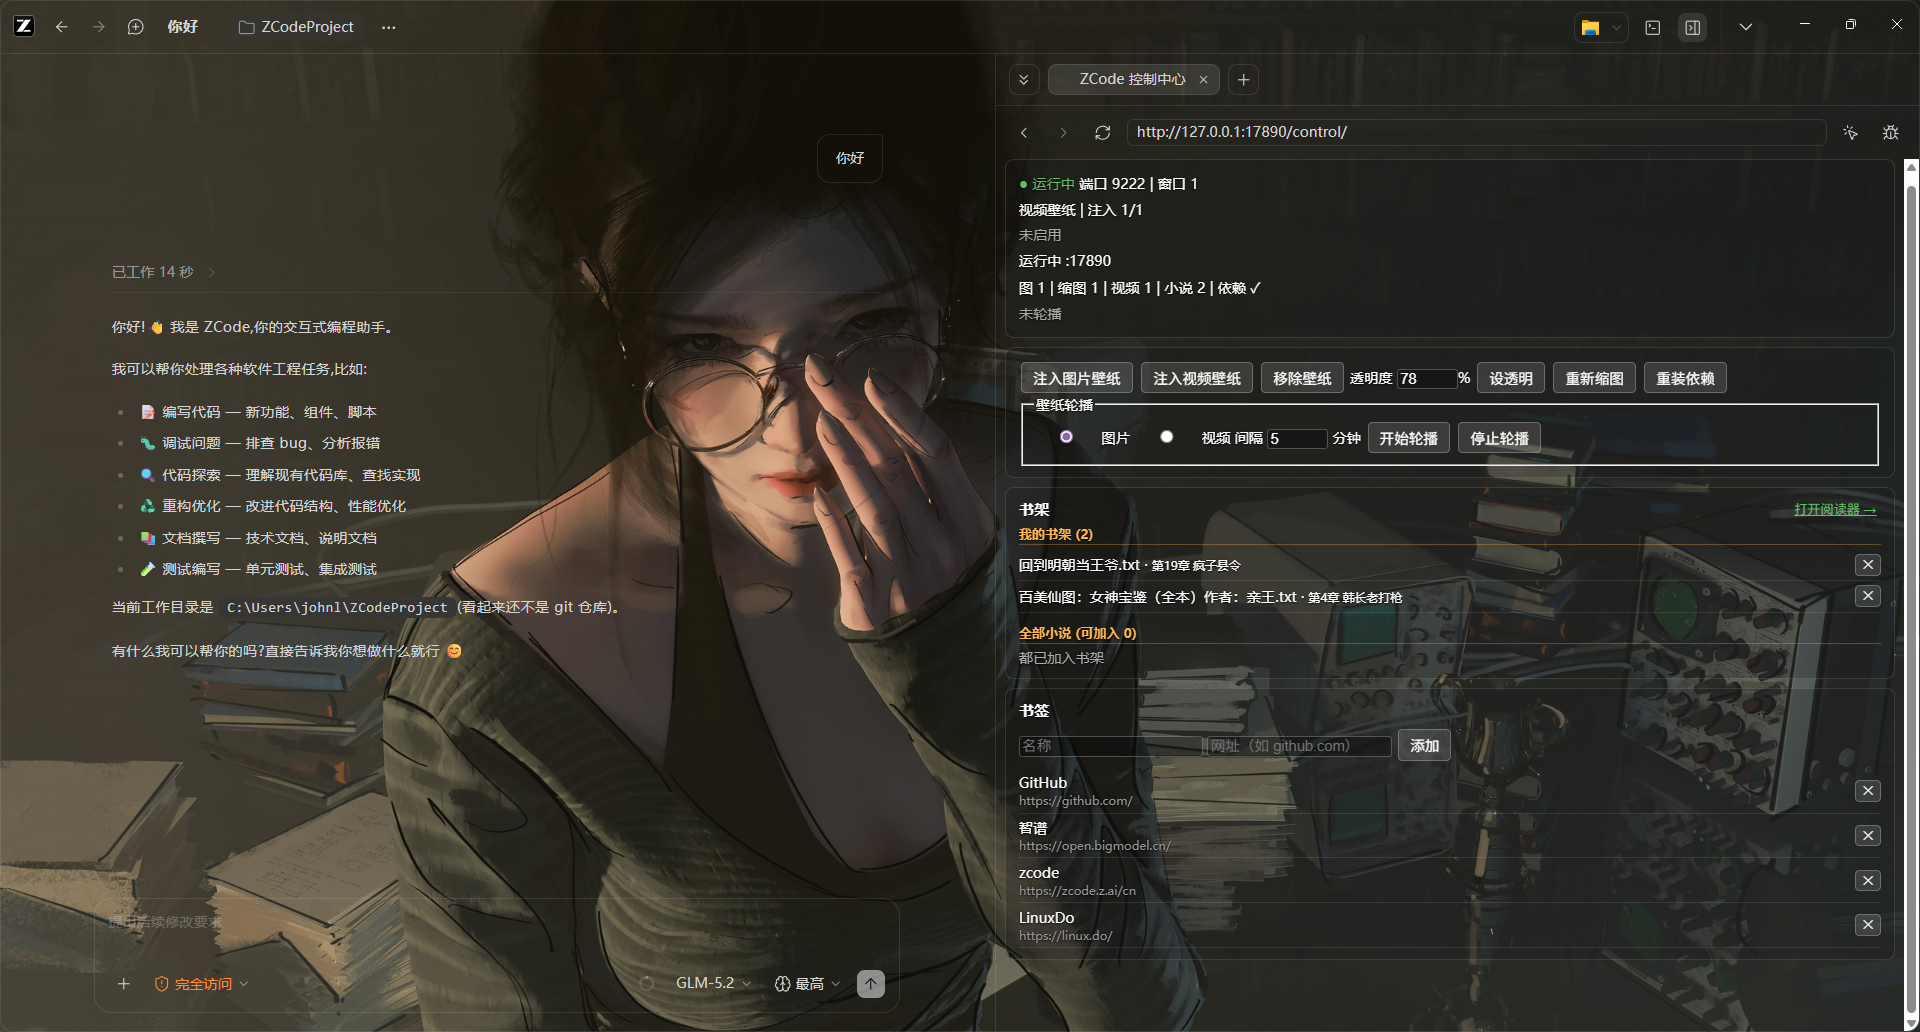
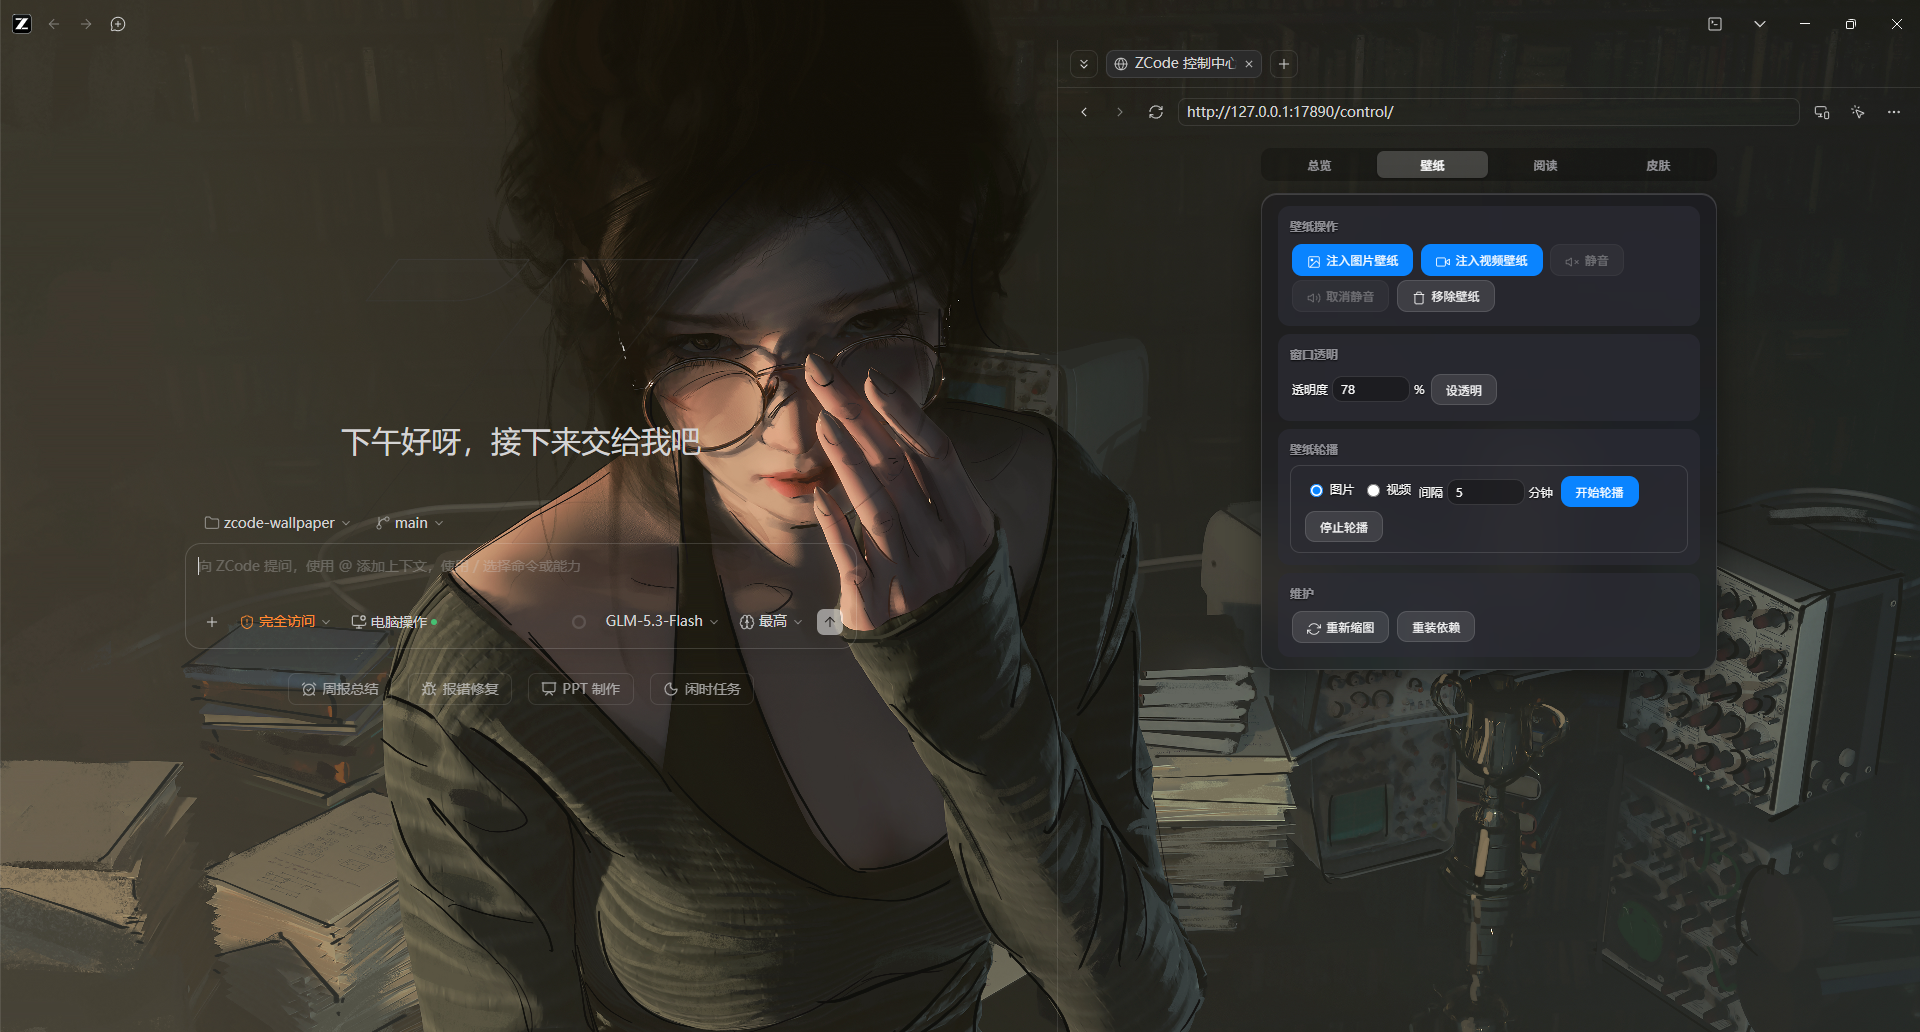
fix(wallpaper): webview 强制透明，修复 ZCode 更新导致的控制中心白底
ZCode 更新后给浏览器面板 <webview> 加了内联 background-color:#fff（browser-use-viewport 类），正好挡在透明控制中心页面和壁纸中间——壁纸注上了也透不出来。内联样式只有 !important 能盖过，wallpaper.css 第 5 段 webview{background-color:transparent !important} 钉死（图片/视频模式共用）。selftest Test 1 加断言防删；README 加故障记录（含修复前后截图）；AGENTS.md 教训 5 子坑 A 补时效性警告；新增探测脚本 scripts/inspect-control-white.cjs。

diff --git a/lib/wallpaper.css b/lib/wallpaper.css
@@ -56,3 +56,12 @@ body {
 .focus-within\:bg-input-focused {
   background-color: transparent !important;
 }
+
+/* 5) 浏览器面板 <webview> 元素：ZCode 更新后给它加了内联
+      background-color: rgb(255,255,255)（browser-use-viewport 类）。
+      内联样式只有 !important 能盖过。不强制透明的话，这块白正好挡在
+      控制中心/阅读器（透明页面）和壁纸中间，面板里一片白（2026-09 真机）。
+      对外部网页无影响：网页自己画不透明背景，webview 元素底色露不出来。 */
+webview {
+  background-color: transparent !important;
+}

diff --git a/AGENTS.md b/AGENTS.md
@@ -333,6 +333,15 @@ brainstorm 时我断言"webview 必盖壁纸"（基于 CSS 常识），又有人
 （wallpaper.css 设 transparent 的效果），是**页面自己**画实色背景盖住。结论：页面写
 `background:transparent` 就透。控制中心的整个 A1 设计依据是这个探测，不是任何 CSS 常识。
 
+**⚠ 子坑 A 结论的时效性（2026-09 真机翻车）**：ZCode 更新后给浏览器面板 `<webview>`
+元素加了**内联** `background-color: rgb(255,255,255)`（class `browser-use-viewport`）——
+上面"webview 元素全透明"的结论被推翻。于是壁纸注上了、祖先链也全透明，控制中心
+（透明页面）却是一片白：白色 webview 元素正好挡在透明页面和壁纸中间。**内联样式只有
+`!important` 能盖过**，wallpaper.css 第 5 段 `webview{background-color:transparent !important}`
+钉死它（selftest Test 1 有断言防删）。对外部网页无影响（网页自己画不透明底，
+webview 元素底色露不出来）。**教训：这类"能透/不能透"的结论绑定 ZCode 具体版本，
+ZCode 更新后要用探测脚本复核，别当成永久事实。**
+
 ### 子坑 B：目录滚不到当前章（offsetParent 链走不通）
 
 reader 展开侧栏，目录不滚到当前章。我连改三版：`scrollIntoView` → `offsetTop` 沿 offsetParent
